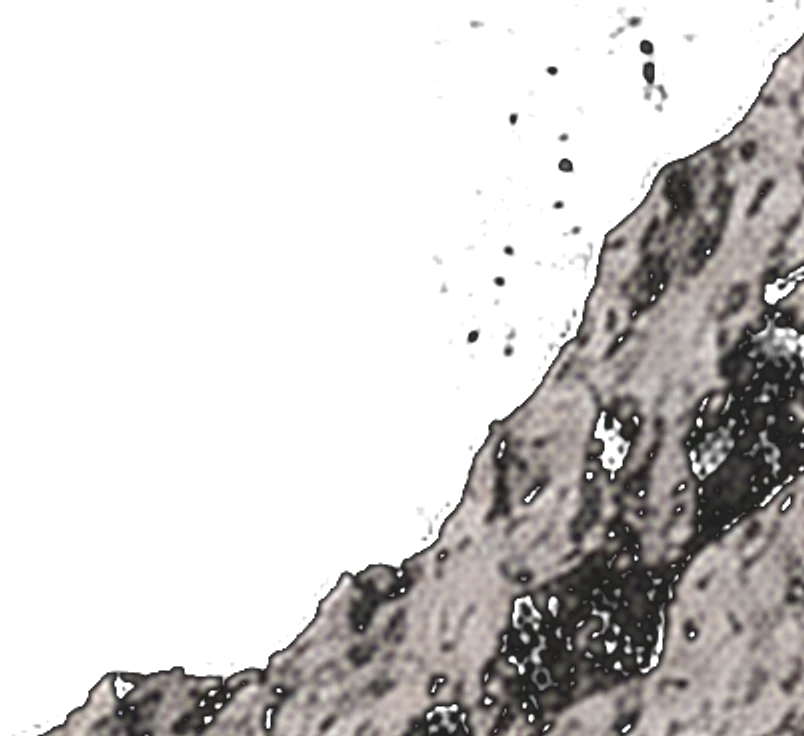
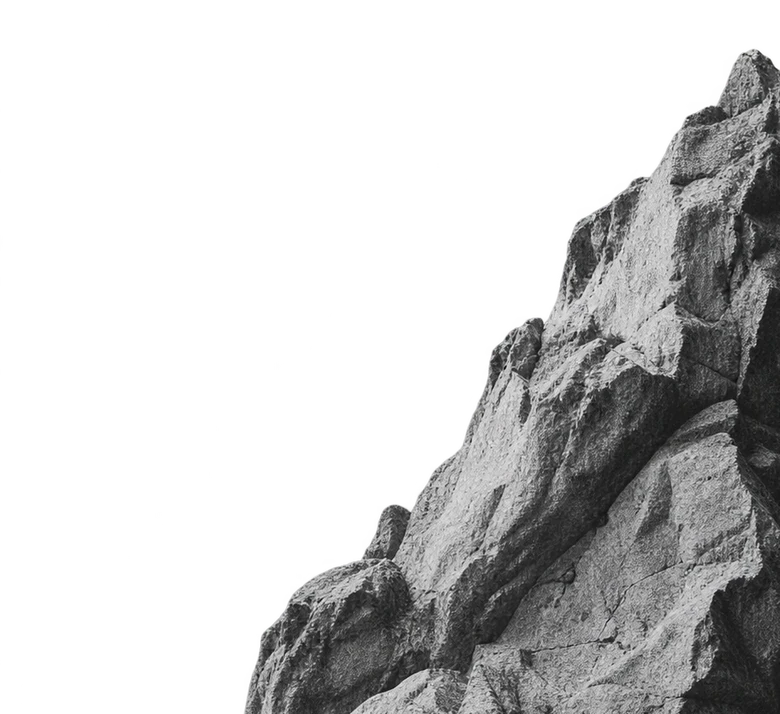
Sharper homepage and Contact collage pieces
- Hero moon print: rebuilt from the owner's own sky photograph as a torn
  black-and-white print (was a 180px mockup crop).
- Home and Contact rocks: cut at native size from the high-resolution hero rock.
- Old files kept in assets/collage-backup-2026-11-11/.
- Add AGENTS.md, which next dev generates.

diff --git a/IMAGE-AUDIT.md b/IMAGE-AUDIT.md
@@ -24,7 +24,7 @@ _Audited 4 Nov 2026 across every page and detail route at 1440px, 1920px and 375
 | 1 | `collage/portrait.webp` | Home hero figure | 1086×1448 | **1086px** | yes | 886 / 1181 / 263 | 2362px | 46% | Your supplied image |
 | 2 | `collage/eye.webp` | Home hero eye | 324×396 | **162px** | yes | 237 / 316 / 120 | 632px | 26% | Homepage reference crop (977px mockup), 2× Lanczos |
 | 3 | `collage/iris.webp` | Home hero iris | 2000×1148 | **2000px** | yes | 505 / 673 / 278 | 1346px | ✅ 149% | Your supplied image |
-| 4 | `collage/moon.webp` | Home hero moon | 360×388 | **180px** | yes | 263 / 351 / 143 | 702px | 26% | Homepage reference crop (977px mockup), 2× Lanczos |
+| 4 | `collage/moon.webp` | Home hero moon | 1200×1293 | **~900px** | yes | 263 / 351 / 143 | 702px | ✅ 128% | **Replaced 11 Nov**: a torn black-and-white print made from the owner's own photo (`photography/sky-notes/02`), paper border and torn edge drawn in code. Old file in `assets/collage-backup-2026-11-11/` |
 | 5 | `collage/rock.webp` | Home hero rock | 900×1225 | **900px** | yes | 174 / 232 / 113 | 464px | ✅ 194% | **Replaced 4 Nov** with batch 01 `rock.png`: AI-generated original, downscaled from 1075×1463. Old file in `assets/placeholders/` + `assets/originals-backup-2026-11-04/` |
 | 6 | `collage/studio-hero-collage.webp` | Studio hero collage | 1624×968 | **1624px** | yes | 920 / 1227 / 416 | 2454px | 66% | **Replaced 4 Nov** with a newly generated image at its native size (not enlarged). Better detail, but below the 2760px target. Clean alpha edges on dark. Its paper tail reaches further left than before, so the tagline and intro now sit above the collage (z-10, with a soft dark text shadow). Old file in `assets/header-backup-2026-11-04-before-regen/` |
 | 7 | `collage/art-hero-brush.webp` | Art hero brush | 1688×932 | **1688px** | yes | 920 / 1227 / 375 | 2454px | 69% | **Replaced 4 Nov** with a newly generated image at its native size (not enlarged). Better detail, but below the 2760px target. No visible halo on dark; a very faint magenta fringe shows only when alpha is amplified 8×. Old file in `assets/header-backup-2026-11-04-before-regen/` |
@@ -40,7 +40,7 @@ _Audited 4 Nov 2026 across every page and detail route at 1440px, 1920px and 375
 | 17 | `works/the-second-nature.webp` | Home archive + Art gallery | 294×230 | **147px** | no | 532 / 709 / 336 | 1418px | 10% | Homepage reference crop (977px mockup), 2× Lanczos |
 | 18 | `collage/studio-paper.webp` | Studio project | 940×980 | **470px** | no | 533 / 711 / 337 | 1422px | 33% | Concept screenshot crop, 2× Lanczos |
 | 19 | `collage/contact-horizon.webp` | Contact framed photo | 1600×1266 | **1600px** | no | 463 / 617 / 334 | 1234px | ✅ 130% | **Replaced 4 Nov** (batch 02) |
-| 20 | `collage/contact-hero-rock.webp` | Contact rock | 804×736 | **402px** | yes | 426 / 568 / 240 | 1136px | 35% | Concept screenshot crop, 2× Lanczos |
+| 20 | `collage/contact-hero-rock.webp` | Contact rock | 780×714 | **780px** | yes | 346 / 461 / hidden | 922px | 85% | **Replaced 11 Nov**: cut at native size from the high-resolution hero `rock.webp` (not enlarged). Old file in `assets/collage-backup-2026-11-11/` |
 | 21 | `collage/about-hero-moon.webp` | About moon | 690×584 | **345px** | yes | 346 / 461 / 206 | 922px | 37% | Concept screenshot crop, 2× Lanczos |
 | 22 | `collage/manifesto-collage.webp` | Home 01 manifesto collage | 734×436 | **367px** | yes | 541 / 721 / 343 | 1442px | 25% | Homepage reference crop (977px mockup), 2× Lanczos |
 | 23 | `collage/about-collage.webp` | Home 03 about + /art/marble-study | 2000×1168 | **2000px** | yes | 555 / 740 / 375 | 1480px | ✅ 135% | **Replaced 4 Nov** (batch 02), real alpha, clean edges |
@@ -54,7 +54,7 @@ _Audited 4 Nov 2026 across every page and detail route at 1440px, 1920px and 375
 | 31 | `works/red-moon-variations.webp` | Home archive + Music | 298×230 | **149px** | no | 258 / 344 / 318 | 688px | 22% | Homepage reference crop (977px mockup), 2× Lanczos |
 | 32 | `works/fragments-vol-1.webp` | Home archive + Music | 326×230 | **163px** | no | 237 / 316 / 167 | 632px | 26% | Homepage reference crop (977px mockup), 2× Lanczos |
 | 33 | `collage/about-moon.webp` | Home 03 about moon | 314×280 | **157px** | yes | 230 / 307 / 192 | 614px | 26% | Homepage reference crop (977px mockup), 2× Lanczos |
-| 34 | `collage/contact-rock.webp` | Home get-in-touch rock | 324×288 | **162px** | yes | 239 / 319 / hidden | 638px | 25% | Homepage reference crop (977px mockup), 2× Lanczos |
+| 34 | `collage/contact-rock.webp` | Home get-in-touch rock | 760×676 | **760px** | yes | 239 / 319 / hidden | 638px | ✅ 119% | **Replaced 11 Nov**: cut at native size from the high-resolution hero `rock.webp` (not enlarged). Old file in `assets/collage-backup-2026-11-11/` |
 
 **Not raster, already sharp at any density:**
 - The wordmark: inline SVG paths, plus a 512px ink texture tile that repeats.

diff --git a/AGENTS.md b/AGENTS.md
@@ -1,0 +1,9 @@
+<!-- BEGIN:nextjs-agent-rules -->
+
+## This is NOT the Next.js you know
+
+This version has breaking changes — APIs, conventions, and file structure may all differ from your training data. Read the relevant guide in `node_modules/next/dist/docs/` (resolved from this file's directory; in monorepos the `next` package may not be visible from the repo root) before writing any code. Heed deprecation notices.
+
+This block is written and re-added by `next dev` — verify at `node_modules/next/dist/server/lib/generate-agent-files.js`. Removing it from a diff only re-creates the uncommitted change; committing it with your work keeps the tree clean.
+
+<!-- END:nextjs-agent-rules -->
